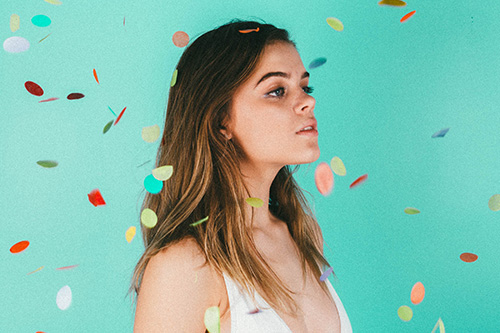
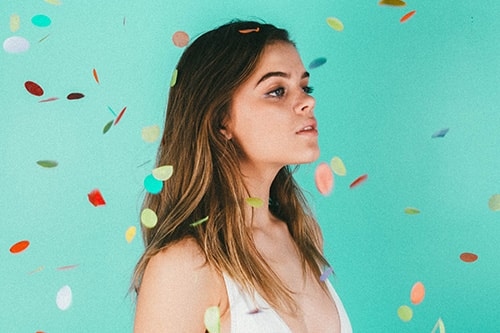
Compressed large images for faster page rendering

diff --git a/blog/templates/sample/post_detail.html b/blog/templates/sample/post_detail.html
@@ -70,7 +70,7 @@
 
                         <div class="post-icons-area">
                             <ul class="post-icons">
-                                <li><a href="#"><i class="ion-heart"></i>57</a></li>
+                                <li><a href="#"><i class="ion-android-bulb"></i>57</a></li>
                                 <li><a><i class="ion-chatbubble"></i>{{ comments.count }}</a></li>
                                 <li><a><i class="ion-eye"></i>{{ post.view_count }}</a></li>
                             </ul>
@@ -131,7 +131,7 @@
                                         </h4>
 
                                         <ul class="post-footer">
-                                            <li><i class="ion-heart"></i>57</li>
+                                            <li><i class="ion-android-bulb"></i>57</li>
                                             <li><i class="ion-eye"></i>{{ post.view_count }}</li>
                                             <li>
                                                 <i class="ion-ios-book-outline"></i>

diff --git a/blog/templates/sample/user_posts.html b/blog/templates/sample/user_posts.html
@@ -19,5 +19,5 @@
             {% include 'partials/_pagination.html' %}
         </div><!-- container -->
     </section><!-- section -->
-    
+
 {% endblock %}
